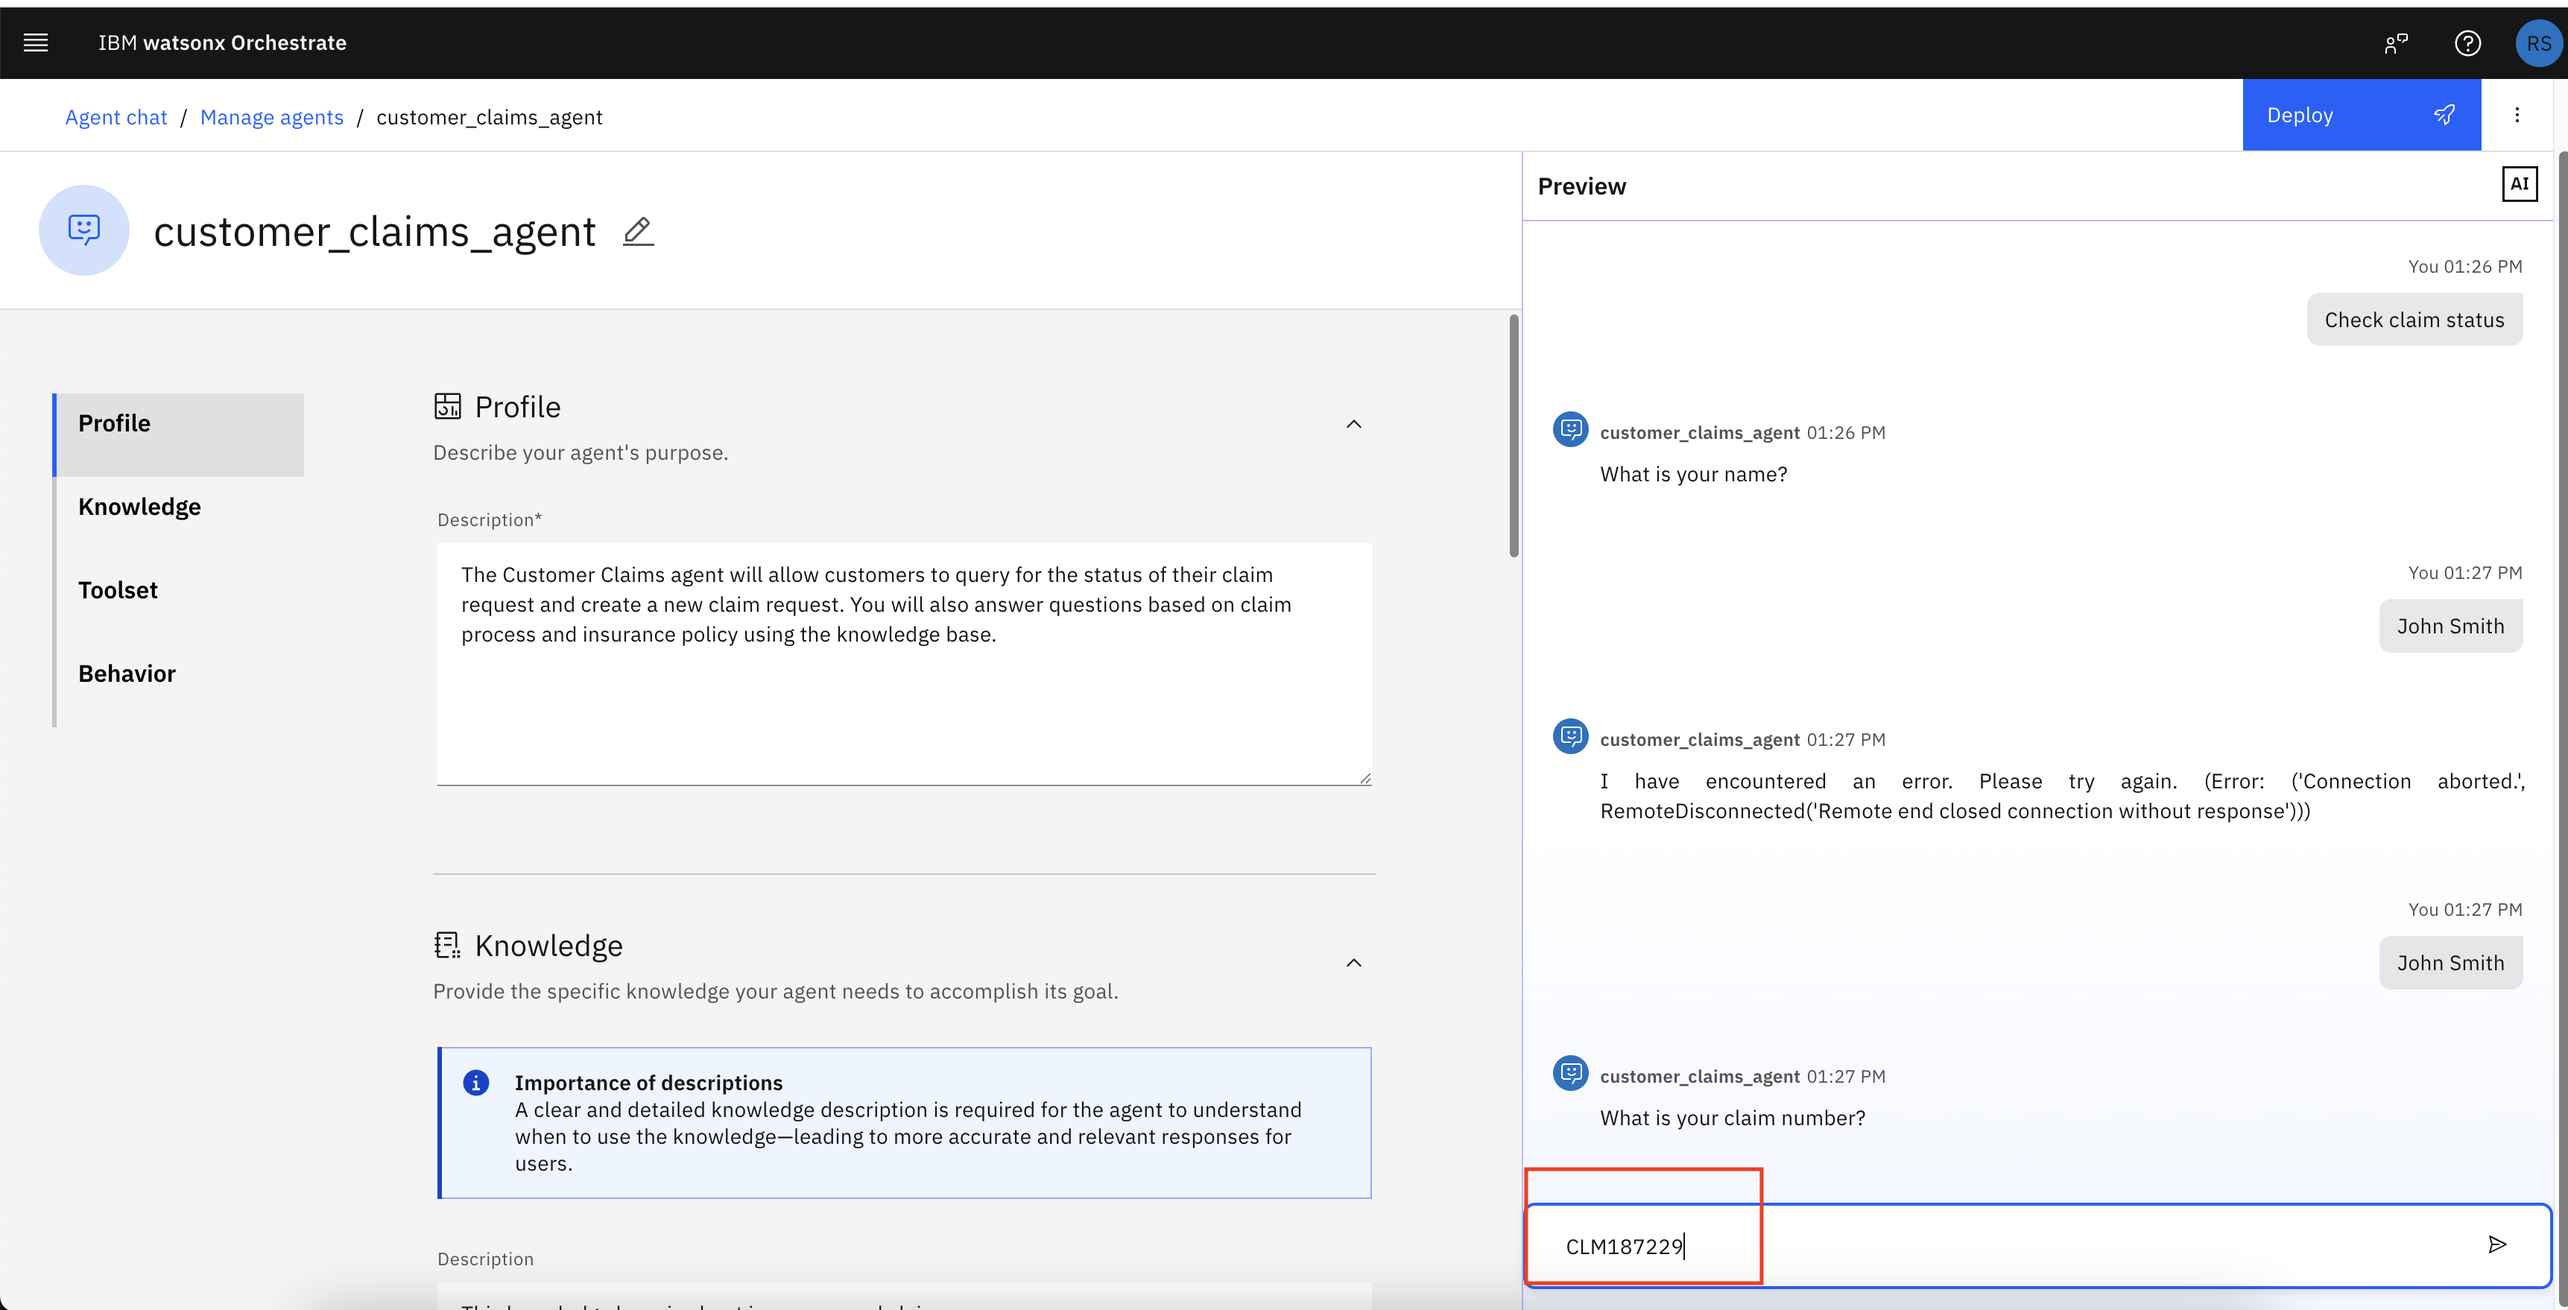
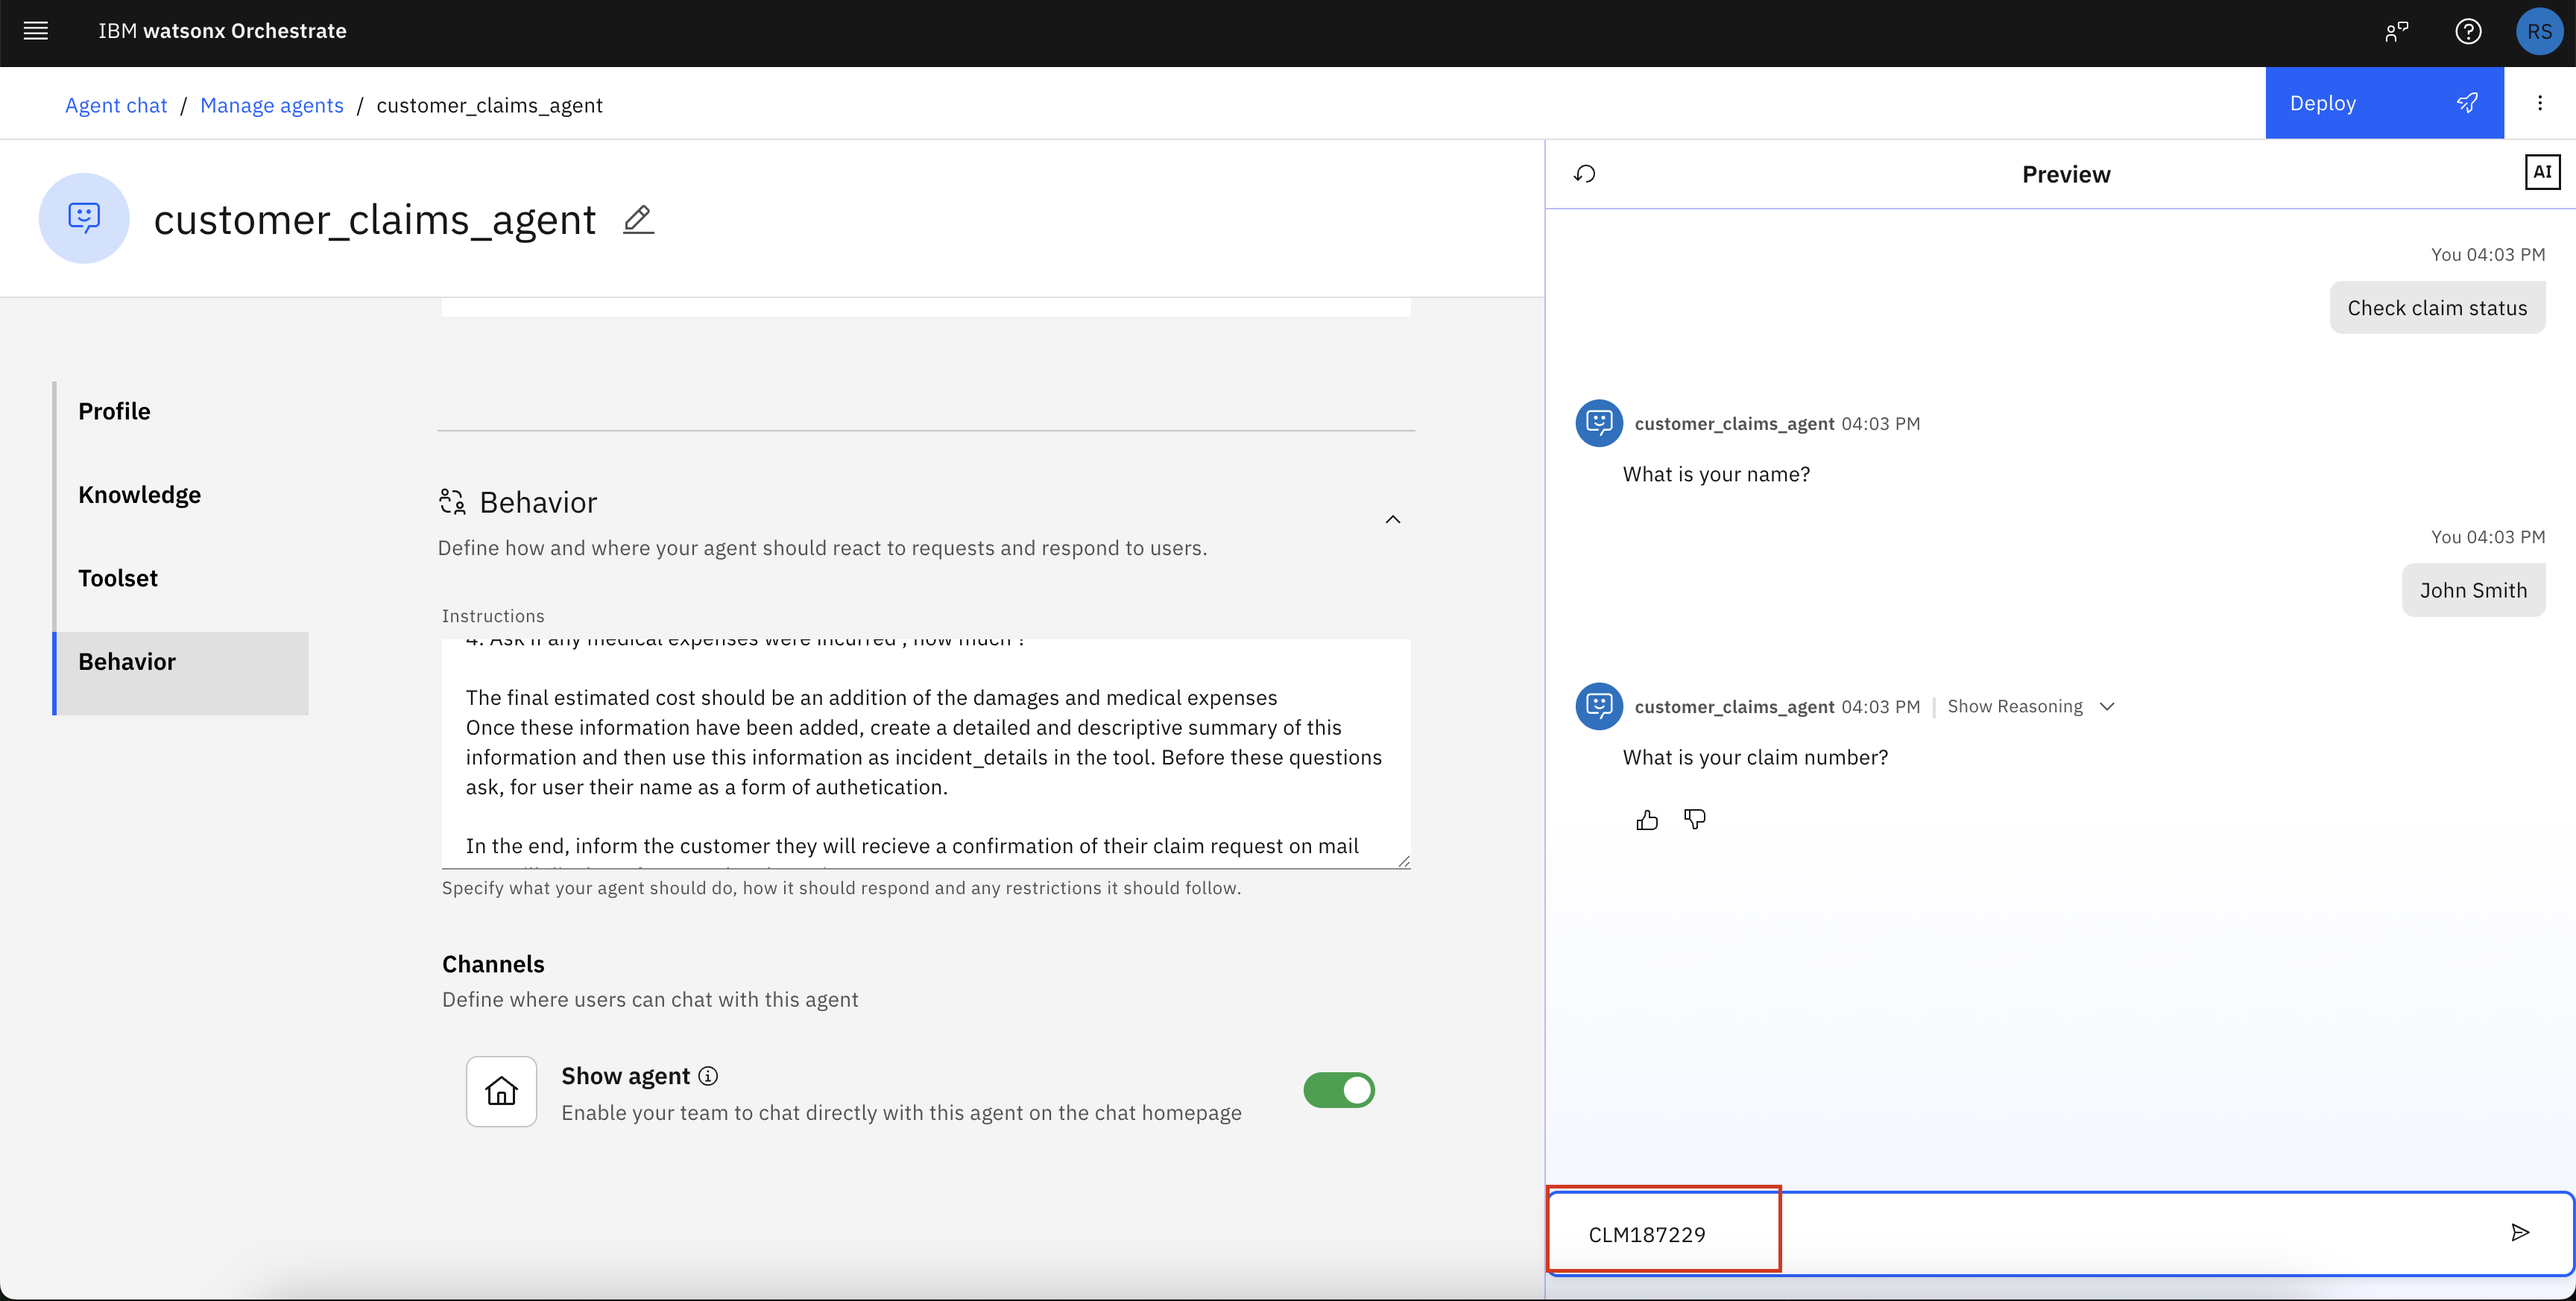
Changes for 221 and 219

diff --git a/usecases/autoclaim-insurance/assets/hands_on_lab_autoclaim_insurance.md b/usecases/autoclaim-insurance/assets/hands_on_lab_autoclaim_insurance.md
@@ -104,6 +104,7 @@ To get the list of already present user names in database, download it from [Ins
 
 <img width="1000" alt="image" src="/usecases/autoclaim-insurance/assets/screenshots_hands_on_lab/1.png">
 
+**Create Information Agent**
 **Information Agent:**
 
 - Click on Agent Builder
@@ -166,6 +167,7 @@ To get the list of already present user names in database, download it from [Ins
 
 <img width="1000" alt="image" src="/usecases/autoclaim-insurance/assets/screenshots_hands_on_lab/36.png">
 
+**Create Claim Processor Agent**
 **Claim_Processor_Agent:**
 
 - Click on Agent Builder.
@@ -272,6 +274,8 @@ To get the list of already present user names in database, download it from [Ins
 
 <img width="1000" alt="image" src="/usecases/autoclaim-insurance/assets/screenshots_hands_on_lab/16.png">
 
+
+**Create Customer Agent**
 **Customer Agent:**
 
 - Click on Agent Builder.
@@ -322,30 +326,30 @@ To get the list of already present user names in database, download it from [Ins
 - Add Behviour as to how the Agent should behave and what it should expect.
 - Add the following for the Agent Behaviour:
 
-> If a question is asked about insurance and claim, use the Automobile Insurance Knowledge Base.pdf to answer questions, if you don't know the answer, reply with "I don't know".
-> The agent has to ask the user questions about how the accident happened, like
->
-  > 1. The location and date of the incident.
-  > 2. Ask for a detailed description of the incident
->
-> Parse the answers for this, in case any details is missing, you can ask the following questions
->
-  > 1. If there were any damages and what was the estimated cost of the damages?
-  > 2. If the accident was reported to the police, and on which date and time?
-  > 3. Ask for a detailed description of the incident,
-  > 4. Ask if any medical expenses were incurred , how much ?
->
-> The final estimated cost should be an addition of the damages and medical expenses
-> Once these information have been added, create a detailed and descriptive summary of this information and then use this information as incident_details in the tool. Before these questions ask, for user name as a form of authetication.
->
-> In the end, inform the customer they will recieve a confirmation of their claim request on mail.
-> You will display a formatted and consice summary.
-> Each detail should be in a new line.
-> Highlight important information, if possible present in tabular format.
->
-> When asked for status you will also help user get the status of the claim request, by first asking for customer name and then the claim number. Once information is fetched, display in tabular format.
->
-> Once the status is shown please end the conversation.
+`> The agent has to ask the user questions about how the accident happened, like
+1. The location and date of the incident.
+2. Ask for vehicle details.
+3. Ask for a detailed description of the incident
+
+Parse the answers for this, in case any details is missing, you can ask the following questions
+1. If there were any damages and what was the estimated cost of the damages?   
+2. If the accident was reported to the police, and on which date and time?
+3. Ask for a detailed description of the incident, 
+4. Ask if any medical expenses were incurred , how much ?
+
+The final estimated cost should be an addition of the damages and medical expenses
+Once these information have been added, create a detailed and descriptive summary of this information and then use this information as incident_details in the tool. Before these questions ask, for user their name as a form of authetication. 
+In the end, inform the customer they will recieve a confirmation of their claim request on mail 
+You will display a formatted and consice summary.
+Each detail should be in a new line.
+Highlight important information, if possible present in tabular format.
+
+When asked for status you will also help user get the status of the claim request, by first asking for customer name and then the claim number. Once information is fetched, display in tabular format.
+
+Once the status is shown please end the conversation.
+
+If a question is asked about insurance and the claim's process, use the Automobile Insurance Knowledge Base.pdf to answer questions, if you don't know the answer, reply with "I don't know". Please don't use this knowledge base when you are asking questions for a tool
+DO NOT REFER TO THIS KNOWLEDGE BASE WHEN WORKING WITH TOOLS.`
 
 <img width="1000" alt="image" src="/usecases/autoclaim-insurance/assets/screenshots_hands_on_lab/27.png">
 
@@ -363,19 +367,19 @@ To get the list of already present user names in database, download it from [Ins
 
   <img width="1000" alt="image" src="/usecases/autoclaim-insurance/assets/screenshots_hands_on_lab/claim-flow-3.png">
 
-  1. Jordan Davenport
+  2. Jordan Davenport
 
   <img width="1000" alt="image" src="/usecases/autoclaim-insurance/assets/screenshots_hands_on_lab/claim-flow-4.png">
 
-  1. St Mary's Street, San Francisco, California
+  3. St Mary's Street, San Francisco, California
 
   <img width="1000" alt="image" src="/usecases/autoclaim-insurance/assets/screenshots_hands_on_lab/claim-flow-5.png">
 
-  1. 23-05-2025
+  4. 23-05-2025
 
   <img width="1000" alt="image" src="/usecases/autoclaim-insurance/assets/screenshots_hands_on_lab/claim-flow-6.png">
 
-  1. I was driving to work when a red pickup truck ran a red light and collided with the rear right side of his vehicle at the intersection. The impact caused the Camry to spin slightly, resulting in damage to the rear bumper, right-side tail light, and a dent in the rear quarter panel.I was wearing a seatbelt and did not sustain serious injuries, but reported minor back pain and visited a doctor the same day. Medical expenses were 3400 and the damages repair cost was 4500.
+  5. I was driving to work when a red pickup truck ran a red light and collided with the rear right side of his vehicle at the intersection. The impact caused the Camry to spin slightly, resulting in damage to the rear bumper, right-side tail light, and a dent in the rear quarter panel.I was wearing a seatbelt and did not sustain serious injuries, but reported minor back pain and visited a doctor the same day. Medical expenses were 3400 and the damages repair cost was 4500.
 
   <img width="1000" alt="image" src="/usecases/autoclaim-insurance/assets/screenshots_hands_on_lab/claim-flow-7.png">
 
@@ -383,10 +387,10 @@ To get the list of already present user names in database, download it from [Ins
   1. Check claim status
   <img width="1000" alt="image" src="/usecases/autoclaim-insurance/assets/screenshots_hands_on_lab/claim-flow-8.png">
 
-  1. John Smith
+  2. John Smith
   <img width="1000" alt="image" src="/usecases/autoclaim-insurance/assets/screenshots_hands_on_lab/claim-flow-10.png">
 
-  1. CLM187229
+  3. CLM187229
   <img width="1000" alt="image" src="/usecases/autoclaim-insurance/assets/screenshots_hands_on_lab/claim-flow-11.png">
 
 
@@ -445,19 +449,19 @@ To get the list of already present user names in database, download it from [Ins
 
   <img width="1000" alt="image" src="/usecases/autoclaim-insurance/assets/screenshots_hands_on_lab/claim-flow-3.png">
 
-  1. Jordan Davenport
+  2. Jordan Davenport
 
   <img width="1000" alt="image" src="/usecases/autoclaim-insurance/assets/screenshots_hands_on_lab/claim-flow-4.png">
 
-  1. St Mary's Street, San Francisco, California
+  3. St Mary's Street, San Francisco, California
 
   <img width="1000" alt="image" src="/usecases/autoclaim-insurance/assets/screenshots_hands_on_lab/claim-flow-5.png">
 
-  1. 23-05-2025
+  4. 23-05-2025
 
   <img width="1000" alt="image" src="/usecases/autoclaim-insurance/assets/screenshots_hands_on_lab/claim-flow-6.png">
 
-  1. I was driving to work when a red pickup truck ran a red light and collided with the rear right side of his vehicle at the intersection. The impact caused the Camry to spin slightly, resulting in damage to the rear bumper, right-side tail light, and a dent in the rear quarter panel.I was wearing a seatbelt and did not sustain serious injuries, but reported minor back pain and visited a doctor the same day. Medical expenses were 3400 and the damages repair cost was 4500.
+  5. I was driving to work when a red pickup truck ran a red light and collided with the rear right side of his vehicle at the intersection. The impact caused the Camry to spin slightly, resulting in damage to the rear bumper, right-side tail light, and a dent in the rear quarter panel.I was wearing a seatbelt and did not sustain serious injuries, but reported minor back pain and visited a doctor the same day. Medical expenses were 3400 and the damages repair cost was 4500.
 
   <img width="1000" alt="image" src="/usecases/autoclaim-insurance/assets/screenshots_hands_on_lab/claim-flow-7.png">
 
@@ -465,8 +469,8 @@ To get the list of already present user names in database, download it from [Ins
   1. Check claim status
   <img width="1000" alt="image" src="/usecases/autoclaim-insurance/assets/screenshots_hands_on_lab/claim-flow-8.png">
 
-  1. John Smith
+  2. John Smith
   <img width="1000" alt="image" src="/usecases/autoclaim-insurance/assets/screenshots_hands_on_lab/claim-flow-10.png">
 
-  1. CLM187229
+  3. CLM187229
   <img width="1000" alt="image" src="/usecases/autoclaim-insurance/assets/screenshots_hands_on_lab/claim-flow-11.png">
